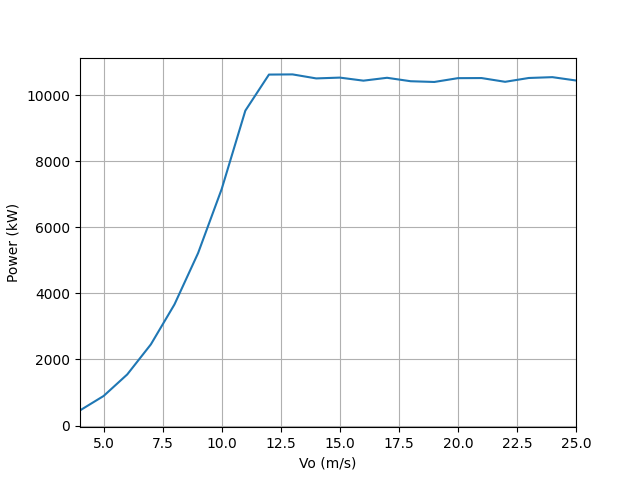
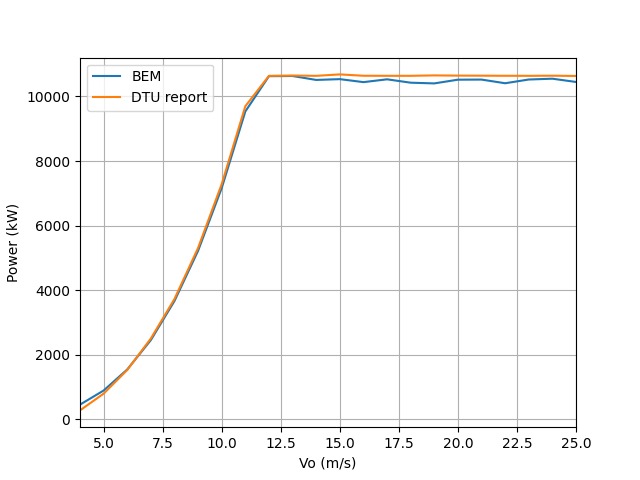
I dont even know

diff --git a/Python codes/Assignement1_Q4 copy.py b/Python codes/Assignement1_Q4 copy.py
@@ -42,13 +42,15 @@ r_ref.pop()
 
 #PLOTS
 
-def simple_graph(x,y,x_label,y_label):
+def simple_graph(x,y,ref,x_label,y_label):
     plt.figure()
     plt.grid()
     plt.xlim(4,25)
     #plt.ylim(y_low,y_top)
-    plt.plot(x, y)
+    plt.plot(x, y, label = 'BEM')
+    plt.plot(x, ref, label = 'DTU report')
     #plt.title((y_label + '(' + x_label + ')'))
+    plt.legend()
     plt.xlabel(x_label)
     plt.ylabel(y_label)
     plt.savefig('plots/'+y_label+'.png')
@@ -186,9 +188,16 @@ for i in range(len(Vo)):
 for i in range(len(Vo)):
     print('Vo(m/s) =', Vo[i], 'T(kN) =', int(T_lst[i]/1000), 'Pitch =', round(pitch_lst[i],1))
 
-simple_graph(Vo, pitch_lst, 'Vo (m/s)', 'Pitch (deg)')
-simple_graph(Vo, P_lst/1000, 'Vo (m/s)', 'Power (kW)')
-simple_graph(Vo, T_lst/1000, 'Vo (m/s)', 'Thrust (kN)')
-simple_graph(Vo, Cp_lst, 'Vo (m/s)', 'Cp')
-simple_graph(Vo, Ct_lst, 'Vo (m/s)', 'Ct')
+ref_pitch = [2.751, 1.966, 0.896, 0, 0, 0, 0, 0, 4.502, 7.266, 9.292, 10.958, 12.499, 13.896, 15.200, 16.432, 17.618, 18.758, 19.860, 20.927, 21.963, 22.975]
+ref_power = [280.2, 799.1, 1532.7, 2506.1, 3730.7, 5311.8, 7286.5, 9698.3, 10639.1, 10648.5, 10639.3, 10683.7, 10642.0, 10640.0, 10639.9, 10652.8, 10646.2, 10644.0, 10641.2, 10639.5, 10643.6, 10635.7]
+ref_thrust = [225.9, 351.5, 498.1, 643.4, 797.3, 1009.1, 1245.8, 1507.4, 1325.1, 1082.0, 967.9, 890.8, 824.8, 774.0, 732.5, 698.4, 668.1, 642.1, 619.5, 599.8, 582.7, 567.2]
+ref_cp = [0.286, 0.418, 0.464, 0.478, 0.476, 0.476, 0.476, 0.476, 0.423, 0.317, 0.253, 0.207, 0.170, 0.142, 0.119, 0.102, 0.087, 0.075, 0.065, 0.057, 0.050, 0.044]
+ref_ct = [0.923, 0.919, 0.904, 0.858, 0.814, 0.814, 0.814, 0.814, 0.602, 0.419, 0.323, 0.259, 0.211, 0.175, 0.148, 0.126, 0.109, 0.095, 0.084, 0.074, 0.066, 0.059]
+
+
+simple_graph(Vo, pitch_lst, ref_pitch, 'Vo (m/s)', 'Pitch (deg)')
+simple_graph(Vo, P_lst/1000, ref_power, 'Vo (m/s)', 'Power (kW)')
+simple_graph(Vo, T_lst/1000, ref_thrust, 'Vo (m/s)', 'Thrust (kN)')
+simple_graph(Vo, Cp_lst, ref_cp, 'Vo (m/s)', 'Cp')
+simple_graph(Vo, Ct_lst, ref_ct, 'Vo (m/s)', 'Ct')
 plt.close()

diff --git a/Python codes/Assignment1_Q5 part 2.py b/Python codes/Assignment1_Q5 part 2.py
@@ -200,7 +200,7 @@ wind_speed = ['5m/s','9m/s','11m/s','20m/s']
 label = [(0, 0), (0, 1), (1, 0), (1, 1)]
 
 plt.figure(figsize=(12,10))
-plt.suptitle('Thrust comparison BEM / Ashes', size = 20)
+#plt.suptitle('Thrust comparison BEM / Ashes', size = 20)
 plt.subplots_adjust(left=0.1,
                     bottom=0.1, 
                     right=0.9, 
@@ -213,12 +213,13 @@ for i in range(4):
     plt.xlabel('Radius [m]')
     plt.ylabel('Thrust force [N]')
     plt.title(wind_speed[i])
-    plt.plot(r_ref,Pn_lst[i])
-    plt.plot(r_lst,thrust_lst[i])
+    plt.plot(r_ref,Pn_lst[i], label='BEM')
+    plt.plot(r_lst,thrust_lst[i], label='Ashes')
+    plt.legend()
 plt.savefig('plots/thrust_Ashes.png')
 
 plt.figure(figsize=(12,10))
-plt.suptitle('Torque comparison BEM / Ashes', size = 20)
+#plt.suptitle('Torque comparison BEM / Ashes', size = 20)
 plt.subplots_adjust(left=0.1,
                     bottom=0.1, 
                     right=0.9, 
@@ -231,8 +232,9 @@ for i in range(4):
     plt.xlabel('Radius [m]')
     plt.ylabel('Torque force [N]')
     plt.title(wind_speed[i])
-    plt.plot(r_ref,Pt_lst[i])
-    plt.plot(r_lst,torque_lst[i])
+    plt.plot(r_ref,Pt_lst[i], label='BEM')
+    plt.plot(r_lst,torque_lst[i], label='Ashes')
+    plt.legend()
 plt.savefig('plots/torque_Ashes.png')
 
 plt.close()

diff --git a/Python codes/Assignment1_Q3.py b/Python codes/Assignment1_Q3.py
@@ -23,7 +23,7 @@ for i in range(len(Vo)):
     if Vo[i] > cut_out:
         w[i] = 0
     elif Vo[i] > Vo_rat:
-        w[i] = w[i-1]
+        w[i] = w_max
     elif Vo[i] < cut_in:
         w[i] = 0
 
